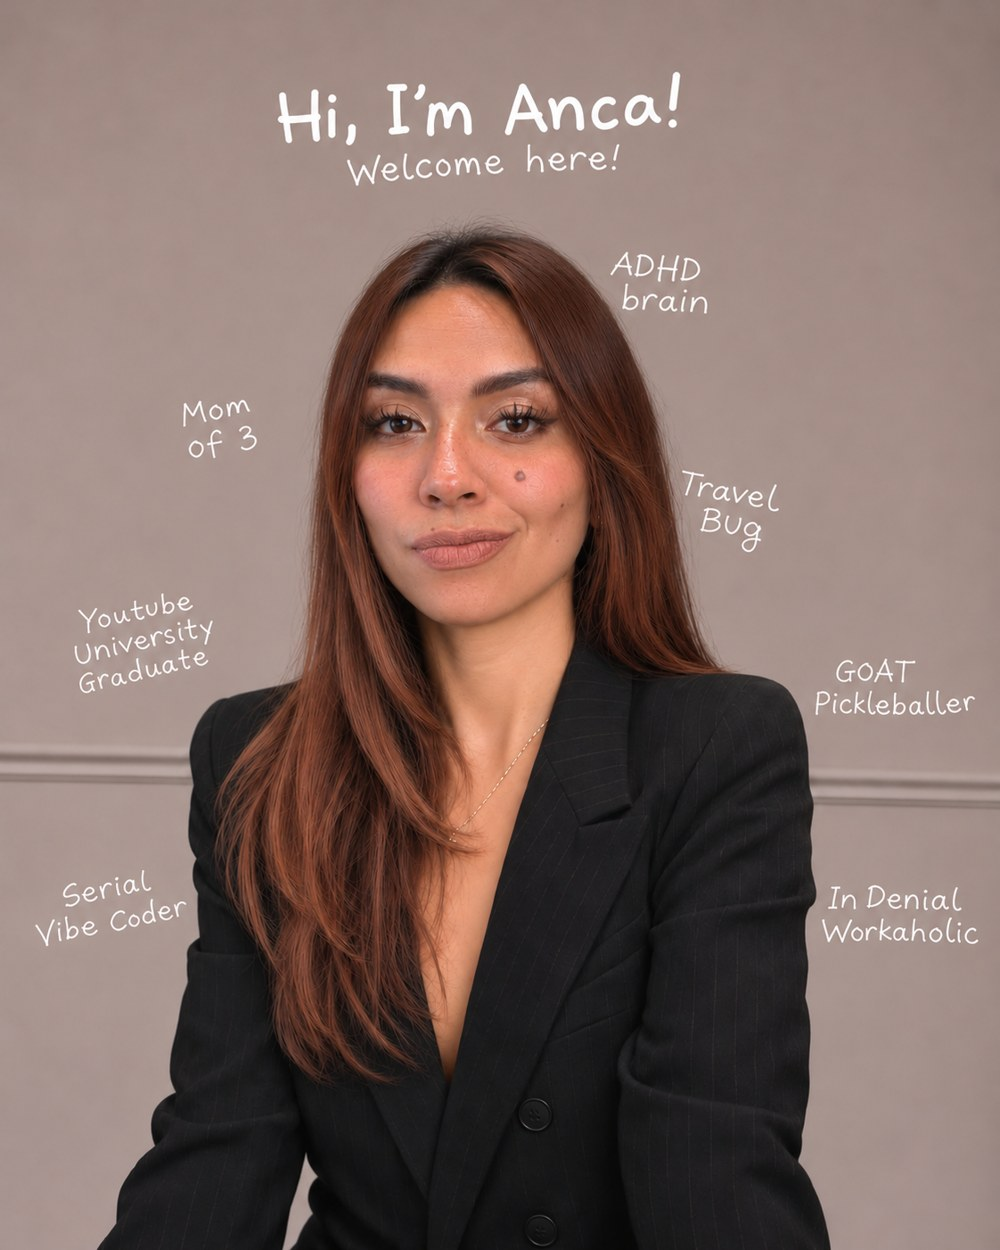
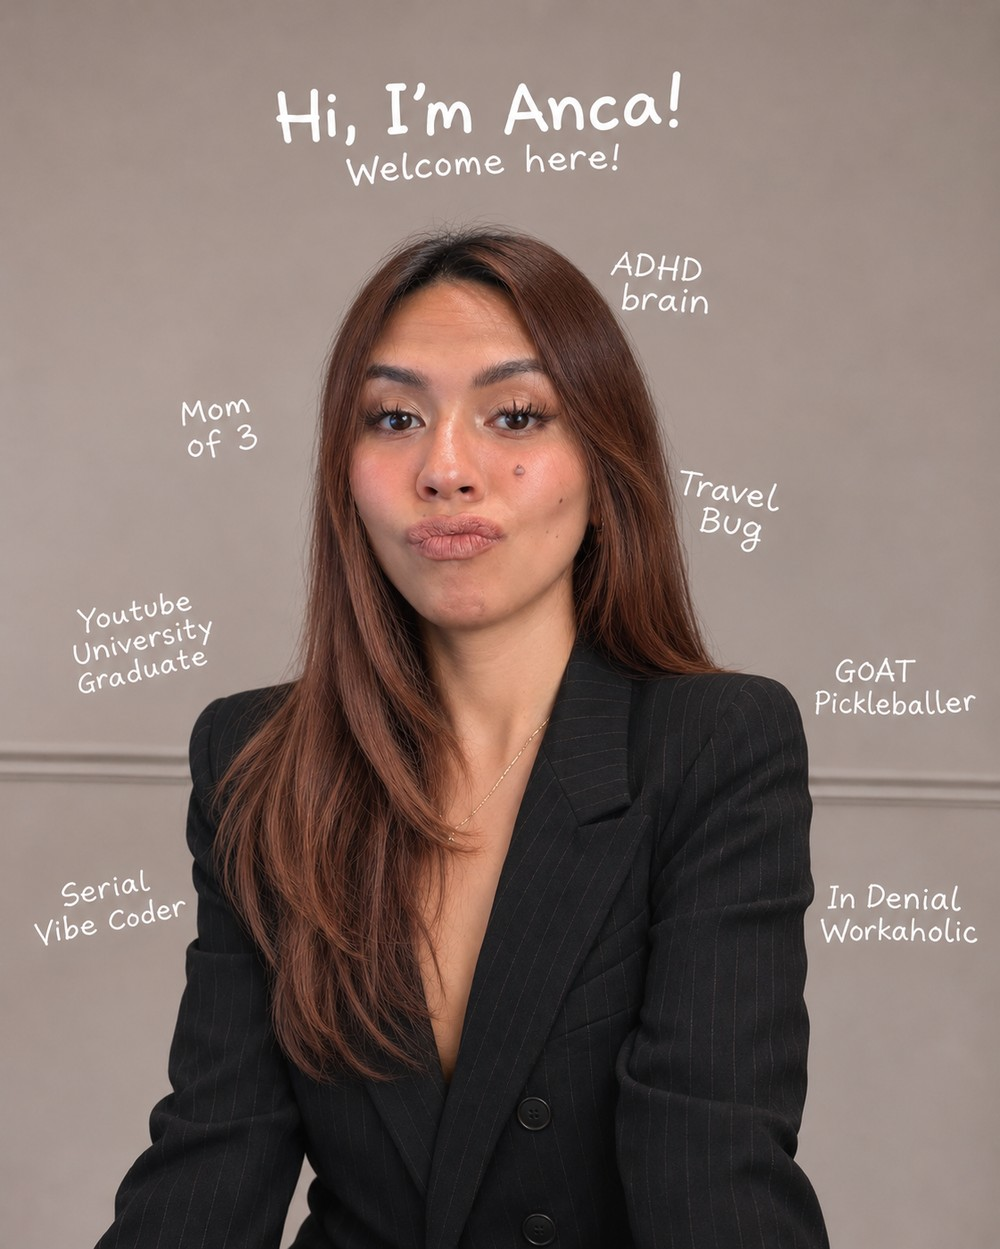
Update Calendly buttons and Get to Know Anca photo

diff --git a/index.html b/index.html
@@ -495,7 +495,7 @@ table.tot tr.sum td{font-weight:700;background:var(--cream)}
 <g fill="#3A2A26" transform="translate(293.0,-8)"><path transform="translate(0.0,0) scale(0.03400,-0.03400)" d="M559 708Q555 667 553.5 628.5Q552 590 552 570Q552 551 553.0 533.5Q554 516 555 504H532Q524 573 506.0 612.5Q488 652 457.5 668.5Q427 685 378 685H323Q293 685 277.0 680.0Q261 675 255.5 659.0Q250 643 250 610V366H294Q325 366 344.5 379.0Q364 392 376.0 412.5Q388 433 394.5 455.5Q401 478 404 498H427Q423 441 423.5 411.0Q424 381 424.0 356.0Q424 331 425.0 301.0Q426 271 430 214H407Q402 248 391.5 278.5Q381 309 358.5 327.5Q336 346 294 346H250V98Q250 66 255.5 49.5Q261 33 277.0 28.0Q293 23 323 23H380Q431 23 465.5 42.0Q500 61 521.0 104.5Q542 148 552 224H575Q572 193 572 144Q572 123 573.5 83.0Q575 43 579 0Q528 2 464.0 2.5Q400 3 350 3H290Q252 3 208.5 2.5Q165 2 120.5 1.5Q76 1 36 0V20Q69 22 85.5 28.0Q102 34 107.5 52.0Q113 70 113 106V602Q113 639 107.5 656.5Q102 674 85.5 680.5Q69 687 36 688V708Q76 707 120.5 706.5Q165 706 208.5 705.5Q252 705 290 705H350Q396 705 454.5 705.5Q513 706 559 708Z"/><path transform="translate(30.2,0) scale(0.03400,-0.03400)" d="M331 708V688Q297 687 279.5 680.5Q262 674 256.0 656.5Q250 639 250 602V98Q250 66 255.5 49.5Q261 33 276.0 28.0Q291 23 319 23H376Q415 23 444.5 37.0Q474 51 496.0 78.0Q518 105 532.0 144.5Q546 184 552 234H575Q572 201 572 148Q572 126 573.5 85.0Q575 44 579 0Q528 2 464.0 2.5Q400 3 350 3H289Q252 3 208.5 2.5Q165 2 120.5 1.5Q76 1 36 0V20Q69 22 85.5 28.0Q102 34 107.5 52.0Q113 70 113 106V602Q113 639 107.5 656.5Q102 674 85.5 680.5Q69 687 36 688V708Q61 707 100.0 706.0Q139 705 184 705Q225 705 265.0 706.0Q305 707 331 708Z"/><path transform="translate(59.8,0) scale(0.03400,-0.03400)" d="M353 711 596 84Q611 48 628.5 34.5Q646 21 661 20V0Q635 2 598.5 2.5Q562 3 524 3Q480 3 442.0 2.5Q404 2 380 0V20Q431 22 445.0 37.5Q459 53 439 104L378 268H153L121 186Q102 136 98.0 104.0Q94 72 103.0 54.0Q112 36 133.0 28.5Q154 21 185 20V0Q153 2 123.0 2.5Q93 3 63 3Q41 3 21.5 2.5Q2 2 -13 0V20Q9 25 30.5 46.0Q52 67 72 119L301 711Q313 710 327.0 710.0Q341 710 353 711ZM371 288 268 566 160 288Z"/><path transform="translate(91.0,0) scale(0.03400,-0.03400)" d="M872 708V688Q840 687 823.0 680.5Q806 674 800.5 656.5Q795 639 795 602V106Q795 70 801.0 52.0Q807 34 823.5 28.0Q840 22 872 20V0Q846 2 806.0 2.5Q766 3 725 3Q680 3 640.5 2.5Q601 2 577 0V20Q611 22 628.5 28.0Q646 34 652.0 52.0Q658 70 658 106V631L417 -3H401L137 644V148Q137 100 143.0 73.5Q149 47 169.5 35.5Q190 24 232 20V0Q213 2 183.0 2.5Q153 3 126 3Q102 3 77.5 2.5Q53 2 37 0V20Q70 24 86.5 35.0Q103 46 108.5 71.0Q114 96 114 140V602Q114 639 108.5 656.5Q103 674 86.5 680.5Q70 687 37 688V708Q53 707 77.5 706.0Q102 705 126 705Q163 705 198.0 706.0Q233 707 260 708L467 190L662 705H725Q766 705 806.0 706.0Q846 707 872 708Z"/><path transform="translate(130.9,0) scale(0.03400,-0.03400)" d="M36 708Q61 707 100.0 706.0Q139 705 178 705Q227 705 271.0 706.0Q315 707 333 707Q467 707 532.5 652.0Q598 597 598 510Q598 474 585.0 434.5Q572 395 540.0 361.5Q508 328 452.5 307.0Q397 286 311 286H250V110Q250 72 258.0 53.0Q266 34 289.0 28.0Q312 22 355 21V0Q326 2 280.0 2.5Q234 3 185 3Q143 3 104.0 2.5Q65 2 36 0V20Q69 22 85.5 28.0Q102 34 107.5 52.0Q113 70 113 106V602Q113 639 107.5 656.5Q102 674 85.5 680.5Q69 687 36 688ZM250 306H301Q364 306 397.5 333.0Q431 360 442.5 404.0Q454 448 454 499Q454 594 423.0 641.0Q392 688 316 688Q275 688 262.5 671.0Q250 654 250 602Z"/><path transform="translate(161.1,0) scale(0.03400,-0.03400)" d="M353 711 596 84Q611 48 628.5 34.5Q646 21 661 20V0Q635 2 598.5 2.5Q562 3 524 3Q480 3 442.0 2.5Q404 2 380 0V20Q431 22 445.0 37.5Q459 53 439 104L378 268H153L121 186Q102 136 98.0 104.0Q94 72 103.0 54.0Q112 36 133.0 28.5Q154 21 185 20V0Q153 2 123.0 2.5Q93 3 63 3Q41 3 21.5 2.5Q2 2 -13 0V20Q9 25 30.5 46.0Q52 67 72 119L301 711Q313 710 327.0 710.0Q341 710 353 711ZM371 288 268 566 160 288Z"/><path transform="translate(192.3,0) scale(0.03400,-0.03400)" d="M36 708Q61 707 100.0 706.0Q139 705 178 705Q227 705 271.0 706.0Q315 707 333 707Q423 707 481.5 685.5Q540 664 569.0 625.0Q598 586 598 533Q598 500 585.0 465.5Q572 431 540.0 402.0Q508 373 453 355Q422 344 383 340Q385 339 388 339Q471 331 510.5 300.5Q550 270 563 208L586 105Q595 64 605.5 46.5Q616 29 636 30Q650 30 660.0 37.5Q670 45 680 58L694 46Q669 15 641.0 0.5Q613 -14 570 -14Q522 -14 489.0 8.5Q456 31 444 94L425 194Q417 236 406.5 268.0Q396 300 378.0 318.0Q360 336 325 336H250V106Q250 70 256.0 52.0Q262 34 278.5 28.0Q295 22 327 20V0Q302 2 263.0 2.5Q224 3 184 3Q139 3 100.0 2.5Q61 2 36 0V20Q69 22 85.5 28.0Q102 34 107.5 52.0Q113 70 113 106V602Q113 639 107.5 656.5Q102 674 85.5 680.5Q69 687 36 688ZM250 356H301Q364 356 397.5 378.5Q431 401 442.5 438.5Q454 476 454 522Q454 601 423.0 644.5Q392 688 316 688Q275 688 262.5 671.0Q250 654 250 602Z"/><path transform="translate(224.4,0) scale(0.03400,-0.03400)" d="M388 722Q490 722 567.0 679.0Q644 636 686.5 555.5Q729 475 729 360Q729 248 685.5 164.0Q642 80 564.5 33.0Q487 -14 387 -14Q285 -14 208.0 29.0Q131 72 88.5 153.0Q46 234 46 348Q46 460 90.0 544.0Q134 628 211.0 675.0Q288 722 388 722ZM384 704Q325 704 281.5 659.0Q238 614 214.0 535.0Q190 456 190 352Q190 246 217.0 167.5Q244 89 290.0 46.5Q336 4 391 4Q450 4 493.5 49.0Q537 94 561.0 173.5Q585 253 585 356Q585 463 558.0 541.0Q531 619 485.5 661.5Q440 704 384 704Z"/></g></svg></a>
 <div class="navlinks">
 <a class="l" href="#story">Meet Anca</a><a class="l" href="#cases">Case studies</a><a class="l" href="#walkthroughs">Walkthroughs</a><a class="l" href="#words">Kind words</a><a class="l" href="#toolkit">Toolkit</a><a class="l" href="#experience">Clients</a>
-<a class="open" href="#contact"><i></i>Let's talk</a>
+<a class="open" href="https://calendly.com/anxelamparo/letstalk" target="_blank" rel="noopener"><i></i>Let's talk</a>
 </div></div></nav>
 <header class="hero" id="top">
 <div class="hero2">
@@ -506,7 +506,7 @@ table.tot tr.sum td{font-weight:700;background:var(--cream)}
 <h1>Make every ad dollar <em>work harder.</em></h1>
 <p class="sub">I help ecommerce brands and lead-gen teams get more from paid media by improving what happens from the first click through to the sale.</p>
 <p class="label" style="font-size:.66rem;letter-spacing:.18em;margin-bottom:26px">10+ years in paid media &nbsp;/&nbsp; Meta Ads &nbsp;/&nbsp; Google Ads</p>
-<div class="cta-row"><a class="btn" href="#cases">View case studies</a><a class="btn alt" href="#contact">Let's talk</a></div>
+<div class="cta-row"><a class="btn" href="#cases">View case studies</a><a class="btn alt" href="https://calendly.com/anxelamparo/letstalk" target="_blank" rel="noopener">Let's talk</a></div>
 </div></div>
 </header>
 <div class="numbers" aria-label="Headline results"><div class="wrap">
@@ -973,7 +973,7 @@ table.tot tr.sum td{font-weight:700;background:var(--cream)}
     <p class="label" style="margin-bottom:22px;color:var(--ink)">Say hello</p>
     <h2>Ready to make your next ad dollar <em>work harder?</em></h2>
     <p>If you have a role that needs someone who runs the ads and builds the funnel behind them, I'd love to hear about it. My resume is available on request.</p>
-    <a class="btn" href="mailto:anxelamparo@gmail.com?subject=Full-time%20opportunity">Let's go!</a>
+    <a class="btn" href="https://calendly.com/anxelamparo/letstalk" target="_blank" rel="noopener">Let's go!</a>
     <div class="copyline"><span>anxelamparo@gmail.com</span><button type="button" id="copybtn">Copy address</button></div>
   </div>
 </section>
